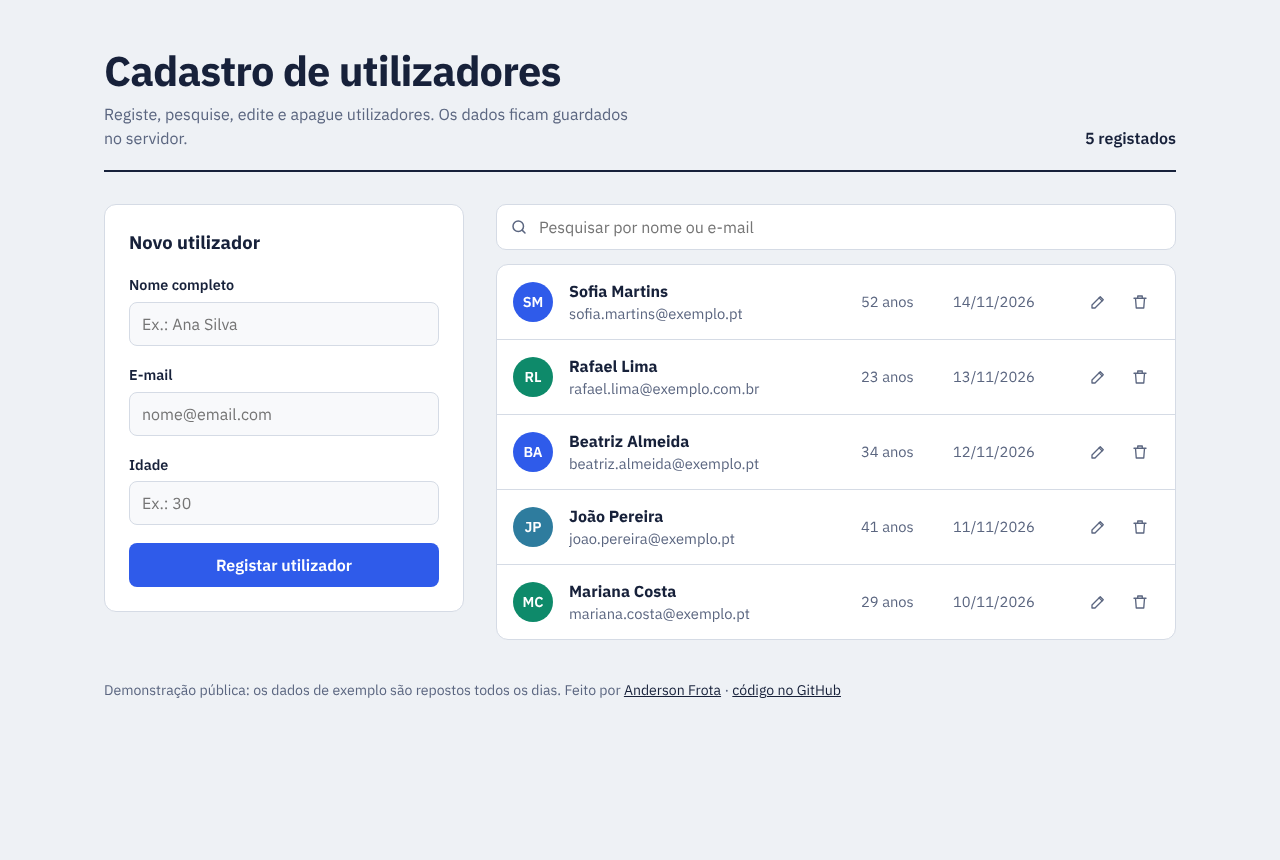
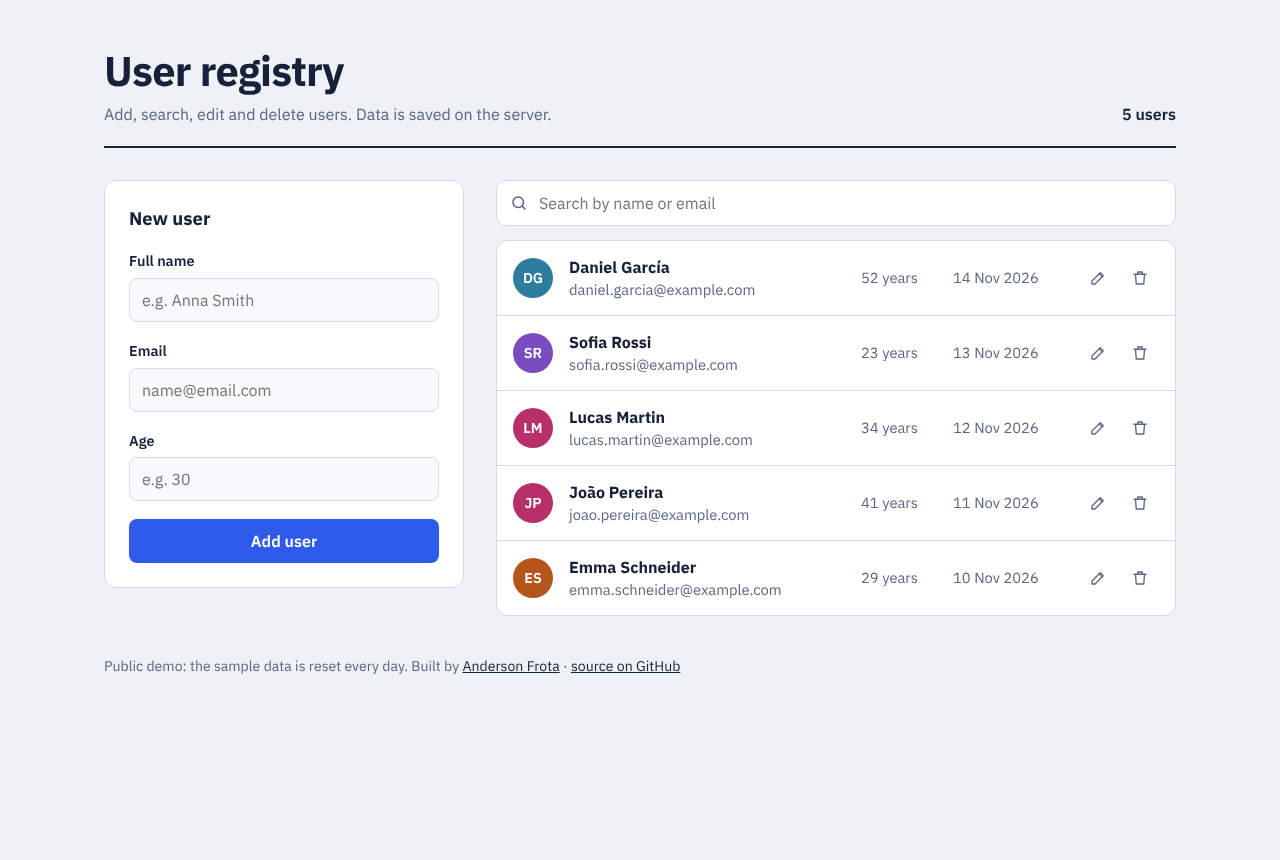
i18n: translate interface, API messages and README to English
Claude-Session: https://claude.ai/code/session_01BqaKH96MiEaL9qEUq3Qunu

diff --git a/frontend/src/App.jsx b/frontend/src/App.jsx
@@ -3,8 +3,8 @@ import { api } from "./api.js";
 import Formulario from "./Formulario.jsx";
 
 const iniciais = (nome) => nome.split(" ").filter(Boolean).slice(0, 2).map((p) => p[0]).join("").toUpperCase();
-const dataCurta = (iso) => new Date(iso).toLocaleDateString("pt-PT", { day: "2-digit", month: "short", year: "numeric" });
-// Cor do avatar derivada do e-mail, para cada pessoa ter sempre a mesma.
+const dataCurta = (iso) => new Date(iso).toLocaleDateString("en-GB", { day: "2-digit", month: "short", year: "numeric" });
+// Avatar color derived from the email, so each person always gets the same one.
 const TONS = ["#2F5BEA", "#0E8A6A", "#B5541B", "#7A4CC2", "#B8306A", "#2E7C9E"];
 const tom = (txt) => TONS[[...txt].reduce((s, c) => s + c.charCodeAt(0), 0) % TONS.length];
 
@@ -35,7 +35,7 @@ export default function App() {
     }
   }, []);
 
-  // Pesquisa com um pequeno atraso para não pedir ao servidor a cada tecla.
+  // Search with a short delay so we don't call the server on every key press.
   useEffect(() => {
     const t = setTimeout(() => carregar(busca), busca ? 250 : 0);
     return () => clearTimeout(t);
@@ -52,11 +52,11 @@ export default function App() {
     try {
       if (emEdicao) {
         await api.atualizar(emEdicao.id, dados);
-        avisar(`${dados.nome.trim()} foi atualizado.`);
+        avisar(`${dados.nome.trim()} was updated.`);
         setEmEdicao(null);
       } else {
         await api.criar(dados);
-        avisar(`${dados.nome.trim()} foi registado.`);
+        avisar(`${dados.nome.trim()} was added.`);
       }
       await carregar(busca);
     } catch (e) {
@@ -71,7 +71,7 @@ export default function App() {
     try {
       await api.apagar(u.id);
       if (emEdicao?.id === u.id) setEmEdicao(null);
-      avisar(`${u.nome} foi apagado.`);
+      avisar(`${u.nome} was deleted.`);
       await carregar(busca);
     } catch (e) {
       avisar(e.message, "erro");
@@ -82,21 +82,21 @@ export default function App() {
     <div className="pagina">
       <header className="topo">
         <div>
-          <h1>Cadastro de utilizadores</h1>
-          <p>Registe, pesquise, edite e apague utilizadores. Os dados ficam guardados no servidor.</p>
+          <h1>User registry</h1>
+          <p>Add, search, edit and delete users. Data is saved on the server.</p>
         </div>
         <span className="contador" aria-live="polite">
-          {estado === "pronto" && (busca ? `${usuarios.length} resultado${usuarios.length === 1 ? "" : "s"}` : `${usuarios.length} registado${usuarios.length === 1 ? "" : "s"}`)}
+          {estado === "pronto" && (busca ? `${usuarios.length} result${usuarios.length === 1 ? "" : "s"}` : `${usuarios.length} user${usuarios.length === 1 ? "" : "s"}`)}
         </span>
       </header>
 
       <main className="grelha">
         <Formulario emEdicao={emEdicao} aoGravar={gravar} aoCancelar={() => setEmEdicao(null)} />
 
-        <section className="lista" aria-label="Utilizadores registados">
+        <section className="lista" aria-label="Registered users">
           <div className="pesquisa">
             <svg viewBox="0 0 24 24" aria-hidden="true"><circle cx="11" cy="11" r="7" /><path d="m20 20-3.5-3.5" /></svg>
-            <input type="search" placeholder="Pesquisar por nome ou e-mail" value={busca} onChange={(e) => setBusca(e.target.value)} aria-label="Pesquisar utilizadores" />
+            <input type="search" placeholder="Search by name or email" value={busca} onChange={(e) => setBusca(e.target.value)} aria-label="Search users" />
           </div>
 
           {estado === "carregar" && (
@@ -108,14 +108,14 @@ export default function App() {
           {estado === "erro" && (
             <div className="vazio">
               <p>{erroLista}</p>
-              <button className="btn btn-secundario" onClick={() => { setEstado("carregar"); carregar(busca); }}>Tentar outra vez</button>
+              <button className="btn btn-secundario" onClick={() => { setEstado("carregar"); carregar(busca); }}>Try again</button>
             </div>
           )}
 
           {estado === "pronto" && usuarios.length === 0 && (
             <div className="vazio">
-              {busca ? <p>Nenhum utilizador corresponde a “{busca}”.</p> : <p>Ainda não há utilizadores. Registe o primeiro no formulário.</p>}
-              {busca && <button className="btn btn-secundario" onClick={() => setBusca("")}>Limpar pesquisa</button>}
+              {busca ? <p>No users match “{busca}”.</p> : <p>No users yet. Add the first one with the form.</p>}
+              {busca && <button className="btn btn-secundario" onClick={() => setBusca("")}>Clear search</button>}
             </div>
           )}
 
@@ -128,13 +128,13 @@ export default function App() {
                     <strong>{u.nome}</strong>
                     <span>{u.email}</span>
                   </div>
-                  <span className="idade">{u.idade} anos</span>
-                  <span className="data" title={`Registado a ${dataCurta(u.criadoEm)}`}>{dataCurta(u.criadoEm)}</span>
+                  <span className="idade">{u.idade} years</span>
+                  <span className="data" title={`Added on ${dataCurta(u.criadoEm)}`}>{dataCurta(u.criadoEm)}</span>
                   <div className="acoes">
-                    <button className="icone" onClick={() => { setEmEdicao(u); window.scrollTo({ top: 0, behavior: "smooth" }); }} aria-label={`Editar ${u.nome}`} title="Editar">
+                    <button className="icone" onClick={() => { setEmEdicao(u); window.scrollTo({ top: 0, behavior: "smooth" }); }} aria-label={`Edit ${u.nome}`} title="Edit">
                       <svg viewBox="0 0 24 24" aria-hidden="true"><path d="M4 20h4L19 9l-4-4L4 16v4Z" /><path d="m13.5 6.5 4 4" /></svg>
                     </button>
-                    <button className="icone icone-perigo" onClick={() => setAApagar(u)} aria-label={`Apagar ${u.nome}`} title="Apagar">
+                    <button className="icone icone-perigo" onClick={() => setAApagar(u)} aria-label={`Delete ${u.nome}`} title="Delete">
                       <svg viewBox="0 0 24 24" aria-hidden="true"><path d="M4 7h16M9 7V4h6v3M6 7l1 13h10l1-13" /></svg>
                     </button>
                   </div>
@@ -146,19 +146,19 @@ export default function App() {
       </main>
 
       <footer className="rodape">
-        Demonstração pública: os dados de exemplo são repostos todos os dias. Feito por{" "}
+        Public demo: the sample data is reset every day. Built by{" "}
         <a href="https://andersonfrota.netlify.app" target="_blank" rel="noreferrer">Anderson Frota</a> ·{" "}
-        <a href="https://github.com/AndersonFrotaGoncalves/Tela-Cadastro-Usu-rio" target="_blank" rel="noreferrer">código no GitHub</a>
+        <a href="https://github.com/AndersonFrotaGoncalves/Tela-Cadastro-Usu-rio" target="_blank" rel="noreferrer">source on GitHub</a>
       </footer>
 
       <dialog ref={dialogo} className="dialogo" onClose={() => setAApagar(null)}>
         {aApagar && (
           <>
-            <h2>Apagar {aApagar.nome}?</h2>
-            <p>O registo de {aApagar.email} será removido. Esta ação não pode ser desfeita.</p>
+            <h2>Delete {aApagar.nome}?</h2>
+            <p>The user {aApagar.email} will be removed. This can't be undone.</p>
             <div className="acoes-form">
-              <button className="btn btn-perigo" onClick={confirmarApagar} autoFocus>Apagar</button>
-              <button className="btn btn-secundario" onClick={() => setAApagar(null)}>Cancelar</button>
+              <button className="btn btn-perigo" onClick={confirmarApagar} autoFocus>Delete</button>
+              <button className="btn btn-secundario" onClick={() => setAApagar(null)}>Cancel</button>
             </div>
           </>
         )}

diff --git a/frontend/src/Formulario.jsx b/frontend/src/Formulario.jsx
@@ -2,13 +2,13 @@ import { useEffect, useRef, useState } from "react";
 
 const VAZIO = { nome: "", email: "", idade: "" };
 
-// Mesmas regras do servidor, para dar retorno imediato antes de enviar.
+// Same rules as the server, for instant feedback before sending.
 export function validar({ nome, email, idade }) {
   const e = {};
-  if (nome.trim().length < 2) e.nome = "Escreva o nome (pelo menos 2 letras).";
-  if (!/^[^\s@]+@[^\s@]+\.[^\s@]{2,}$/.test(email.trim())) e.email = "Escreva um e-mail válido, por exemplo nome@email.com.";
+  if (nome.trim().length < 2) e.nome = "Enter a name (at least 2 letters).";
+  if (!/^[^\s@]+@[^\s@]+\.[^\s@]{2,}$/.test(email.trim())) e.email = "Enter a valid email, for example name@email.com.";
   const n = Number(idade);
-  if (!String(idade).trim() || !Number.isInteger(n) || n < 1 || n > 120) e.idade = "A idade tem de ser um número inteiro entre 1 e 120.";
+  if (!String(idade).trim() || !Number.isInteger(n) || n < 1 || n > 120) e.idade = "Age must be a whole number between 1 and 120.";
   return e;
 }
 
@@ -68,17 +68,17 @@ export default function Formulario({ emEdicao, aoGravar, aoCancelar }) {
 
   return (
     <form className="formulario" onSubmit={enviar} noValidate>
-      <h2>{emEdicao ? "Editar utilizador" : "Novo utilizador"}</h2>
-      {campo("nome", "Nome completo", { ref: primeiro, autoComplete: "name", maxLength: 60, placeholder: "Ex.: Ana Silva" })}
-      {campo("email", "E-mail", { type: "email", autoComplete: "email", maxLength: 100, placeholder: "nome@email.com" })}
-      {campo("idade", "Idade", { type: "number", inputMode: "numeric", min: 1, max: 120, placeholder: "Ex.: 30" })}
+      <h2>{emEdicao ? "Edit user" : "New user"}</h2>
+      {campo("nome", "Full name", { ref: primeiro, autoComplete: "name", maxLength: 60, placeholder: "e.g. Anna Smith" })}
+      {campo("email", "Email", { type: "email", autoComplete: "email", maxLength: 100, placeholder: "name@email.com" })}
+      {campo("idade", "Age", { type: "number", inputMode: "numeric", min: 1, max: 120, placeholder: "e.g. 30" })}
       <div className="acoes-form">
         <button className="btn btn-primario" disabled={aGravar}>
-          {aGravar ? "A gravar…" : emEdicao ? "Guardar alterações" : "Registar utilizador"}
+          {aGravar ? "Saving…" : emEdicao ? "Save changes" : "Add user"}
         </button>
         {emEdicao && (
           <button type="button" className="btn btn-secundario" onClick={aoCancelar} disabled={aGravar}>
-            Cancelar
+            Cancel
           </button>
         )}
       </div>

diff --git a/frontend/src/api.js b/frontend/src/api.js
@@ -1,4 +1,4 @@
-// Cliente da API REST (/api/usuarios), servida pelas Netlify Functions.
+// REST API client (/api/usuarios), served by Netlify Functions.
 const BASE = "/api/usuarios";
 
 export class ErroApi extends Error {
@@ -14,11 +14,11 @@ async function pedir(caminho, opcoes = {}) {
   try {
     r = await fetch(BASE + caminho, { headers: { "content-type": "application/json" }, ...opcoes });
   } catch {
-    throw new ErroApi("Sem ligação ao servidor. Verifique a internet e tente outra vez.");
+    throw new ErroApi("Can't reach the server. Check your internet connection and try again.");
   }
   if (r.status === 204) return null;
   const dados = await r.json().catch(() => ({}));
-  if (!r.ok) throw new ErroApi(dados.erro || "Não foi possível concluir o pedido.", dados.campos, r.status);
+  if (!r.ok) throw new ErroApi(dados.erro || "The request could not be completed.", dados.campos, r.status);
   return dados;
 }
 

diff --git a/frontend/index.html b/frontend/index.html
@@ -1,10 +1,10 @@
 <!doctype html>
-<html lang="pt">
+<html lang="en">
 <head>
   <meta charset="UTF-8" />
   <meta name="viewport" content="width=device-width, initial-scale=1.0" />
-  <title>Cadastro de Utilizadores</title>
-  <meta name="description" content="Aplicação de cadastro de utilizadores em React com API REST serverless — criar, editar, pesquisar e apagar." />
+  <title>User Registry</title>
+  <meta name="description" content="User registry app in React with a serverless REST API: create, edit, search and delete users." />
   <link rel="icon" href="/favicon.svg" type="image/svg+xml" />
   <link rel="preconnect" href="https://fonts.googleapis.com" />
   <link rel="preconnect" href="https://fonts.gstatic.com" crossorigin />

diff --git a/README.md b/README.md
@@ -1,63 +1,63 @@
-# Cadastro de Utilizadores
+# User Registry
 
-Aplicação full stack de cadastro de utilizadores: frontend em **React** (Vite) e **API REST serverless** em Netlify Functions, com os dados guardados no **Netlify Blobs**.
+Full stack user registry app: **React** front end (Vite) and a **serverless REST API** on Netlify Functions, with data stored in **Netlify Blobs**.
 
-**Demonstração:** [tela-cadastro-usuario.netlify.app](https://tela-cadastro-usuario.netlify.app)
+**Live demo:** [tela-cadastro-usuario.netlify.app](https://tela-cadastro-usuario.netlify.app)
 
-![Ecrã principal](docs/cadastro.png)
+![Main screen](docs/cadastro.png)
 
-## Funcionalidades
+## Features
 
-- Registar, editar e apagar utilizadores (com confirmação antes de apagar)
-- Pesquisa por nome ou e-mail
-- Validação no formulário e no servidor, com mensagens por campo
-- E-mail único (sem distinguir maiúsculas e minúsculas)
-- Estados de carregamento, lista vazia e erro de ligação
-- Layout responsivo e acessível (navegação por teclado, `aria-*`)
-- Dados de demonstração repostos todos os dias por uma função agendada
+- Add, edit and delete users (with a confirmation before deleting)
+- Search by name or email
+- Validation in the form and on the server, with a message for each field
+- Unique email (case-insensitive)
+- Loading, empty and connection error states
+- Responsive and accessible layout (keyboard navigation, `aria-*` attributes)
+- Demo data reset every day by a scheduled function
 
 ## API
 
-| Método | Rota | Descrição |
+| Method | Route | Description |
 |---|---|---|
-| `GET` | `/api/usuarios?busca=texto` | Lista (mais recentes primeiro), com pesquisa opcional |
-| `POST` | `/api/usuarios` | Cria `{ nome, email, idade }` |
-| `PUT` | `/api/usuarios/:id` | Atualiza |
-| `DELETE` | `/api/usuarios/:id` | Apaga |
+| `GET` | `/api/usuarios?busca=text` | List (newest first), with optional search |
+| `POST` | `/api/usuarios` | Create `{ nome, email, idade }` (name, email, age) |
+| `PUT` | `/api/usuarios/:id` | Update |
+| `DELETE` | `/api/usuarios/:id` | Delete |
 
-Erros devolvem `{ erro, campos }` com o código HTTP adequado (400, 404, 409).
+Errors return `{ erro, campos }` (error message and per-field messages) with the right HTTP status (400, 404, 409).
 
-## Estrutura
+## Structure
 
 ```
 frontend/                  React + Vite
-  src/App.jsx              lista, pesquisa, edição, confirmação
-  src/Formulario.jsx       formulário com validação
-  src/api.js               cliente da API
+  src/App.jsx              list, search, edit, delete confirmation
+  src/Formulario.jsx       form with validation
+  src/api.js               API client
 netlify/functions/
-  usuarios.mjs             API REST
-  repor-demo.mjs           função agendada (reposição diária)
-netlify/lib/usuarios.mjs   regras de negócio (testáveis sem Netlify)
-tests/api.test.mjs         testes da API (node:test)
+  usuarios.mjs             REST API
+  repor-demo.mjs           scheduled function (daily demo reset)
+netlify/lib/usuarios.mjs   business rules (testable without Netlify)
+tests/api.test.mjs         API tests (node:test)
 ```
 
-## Correr localmente
+## Run locally
 
 ```bash
 npm install
-npm test                      # testes da API
+npm test                      # API tests
 npm i -g netlify-cli
-netlify dev                   # frontend + API em http://localhost:8888
+netlify dev                   # front end + API at http://localhost:8888
 ```
 
-## Publicar no Netlify
+## Deploy to Netlify
 
-Ligar o repositório no Netlify. O `netlify.toml` já define o build (`npm run build`), a pasta publicada (`frontend/dist`) e as funções. O Netlify Blobs não precisa de configuração.
+Connect the repository on Netlify. `netlify.toml` already sets the build command (`npm run build`), the publish folder (`frontend/dist`) and the functions. Netlify Blobs needs no setup.
 
-## Histórico
+## History
 
-A primeira versão foi feita no curso DevClub com Express, Prisma e MongoDB. Esta versão 2 passou a API para serverless e reescreveu o frontend com validação, edição, pesquisa e testes.
+The first version was built during the DevClub course with Express, Prisma and MongoDB. Version 2 moved the API to serverless and rewrote the front end with validation, editing, search and tests.
 
-## Autor
+## Author
 
-**Anderson Frota Gonçalves** · [Portfólio](https://andersonfrota.netlify.app) · [LinkedIn](https://www.linkedin.com/in/andersongfrota)
+**Anderson Frota Gonçalves** · [Portfolio](https://andersonfrota.netlify.app) · [LinkedIn](https://www.linkedin.com/in/andersongfrota)
